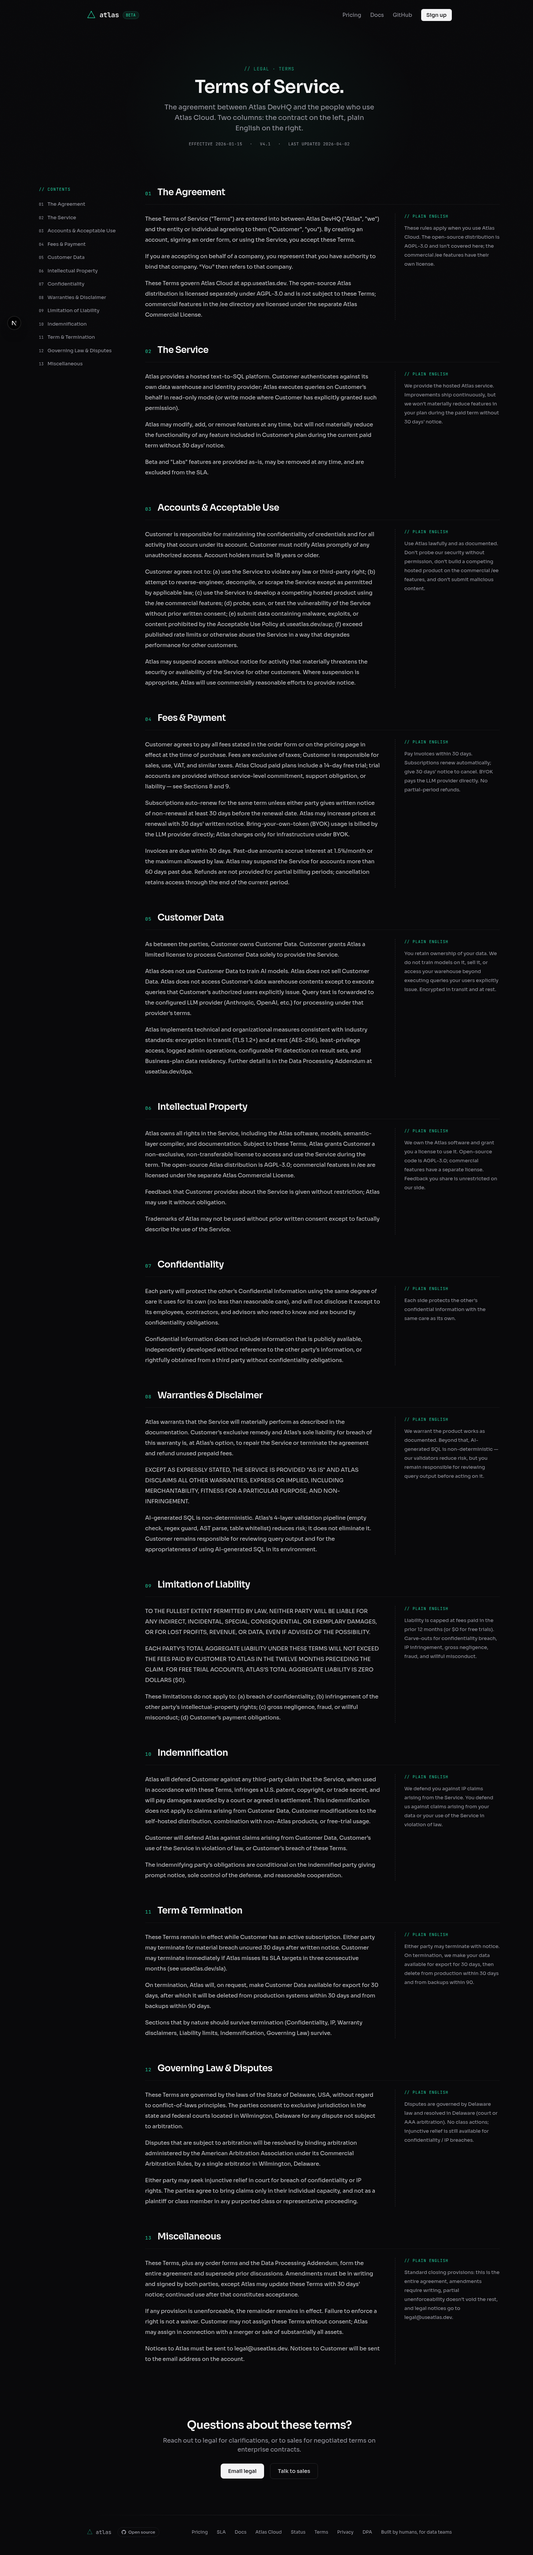
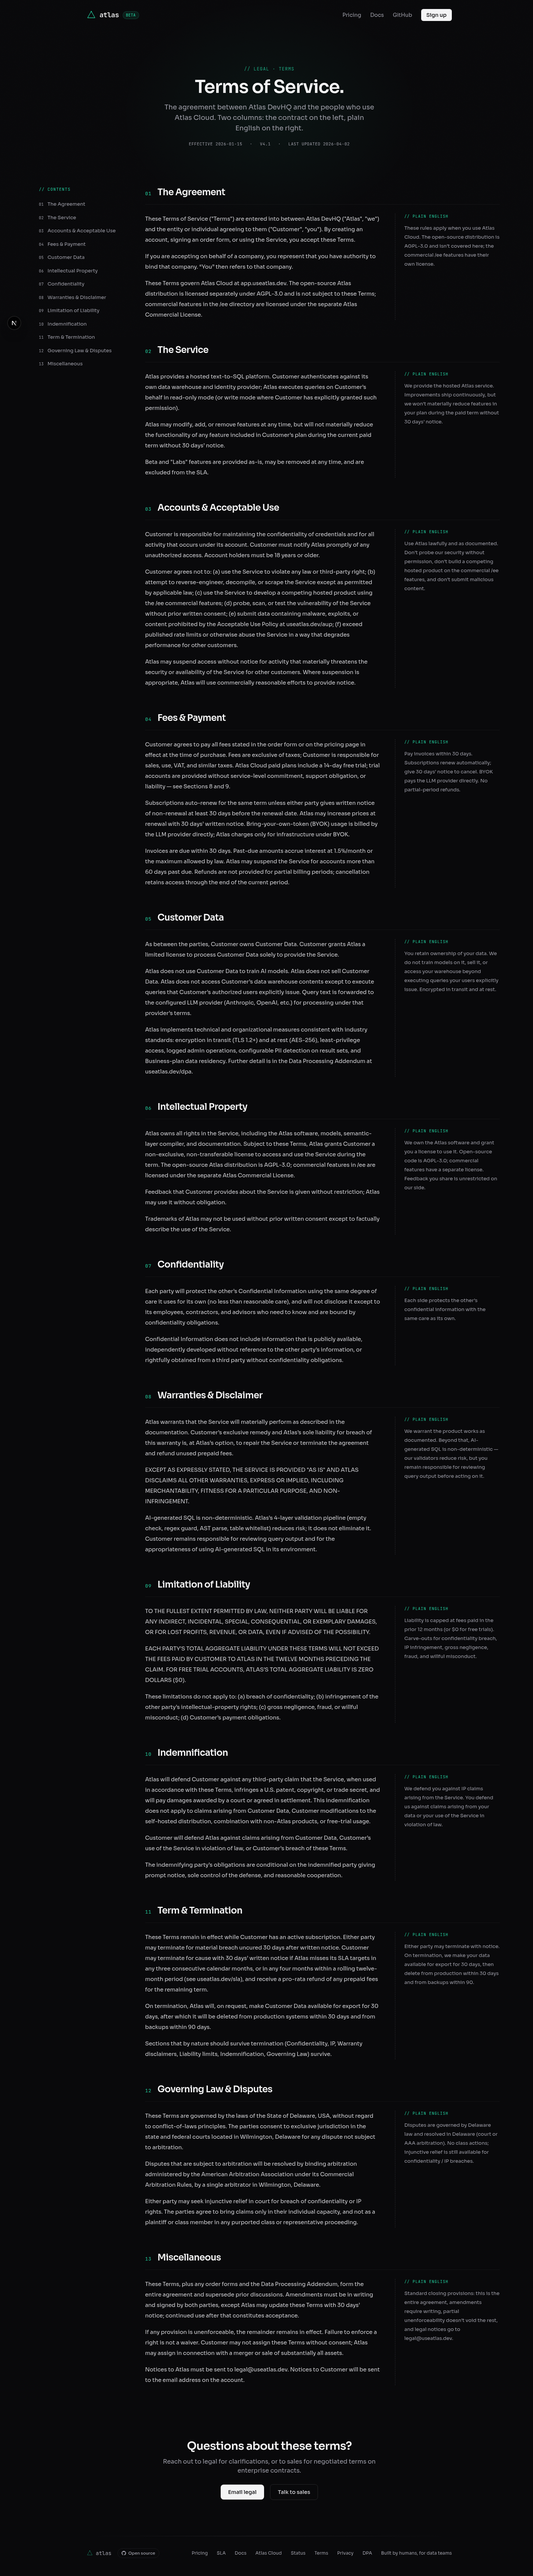
fix(www): #1912 review fold — align SLA termination clause with /sla
code-reviewer caught content drift between /terms and the SLA shipped
in #1911 / PR #1918. Two mismatches:

- /terms said termination on three consecutive missed-SLA months is
  "immediate"; /sla says "30 days' written notice."
- /terms omitted the 4-of-12-rolling trigger that /sla codifies.

Rewrite the clause so both pages use the same language: 30 days' written
notice + three consecutive months OR four months within a rolling
twelve-month period + pro-rata refund of prepaid fees. Plain-english
column already correct ("Either party may terminate with notice."), no
change needed there.

Future readers should treat /sla as the authoritative source for the
termination math; cross-references in /terms must mirror it verbatim.

diff --git a/apps/www/src/app/terms/page.tsx b/apps/www/src/app/terms/page.tsx
@@ -140,7 +140,7 @@ const SECTIONS: LegalSection[] = [
     id: "term",
     title: "Term & Termination",
     legal: [
-      "These Terms remain in effect while Customer has an active subscription. Either party may terminate for material breach uncured 30 days after written notice. Customer may terminate immediately if Atlas misses its SLA targets in three consecutive months (see useatlas.dev/sla).",
+      "These Terms remain in effect while Customer has an active subscription. Either party may terminate for material breach uncured 30 days after written notice. Customer may terminate for cause with 30 days’ written notice if Atlas misses its SLA targets in any three consecutive calendar months, or in any four months within a rolling twelve-month period (see useatlas.dev/sla), and receive a pro-rata refund of any prepaid fees for the remaining term.",
       "On termination, Atlas will, on request, make Customer Data available for export for 30 days, after which it will be deleted from production systems within 30 days and from backups within 90 days.",
       "Sections that by nature should survive termination (Confidentiality, IP, Warranty disclaimers, Liability limits, Indemnification, Governing Law) survive.",
     ],
